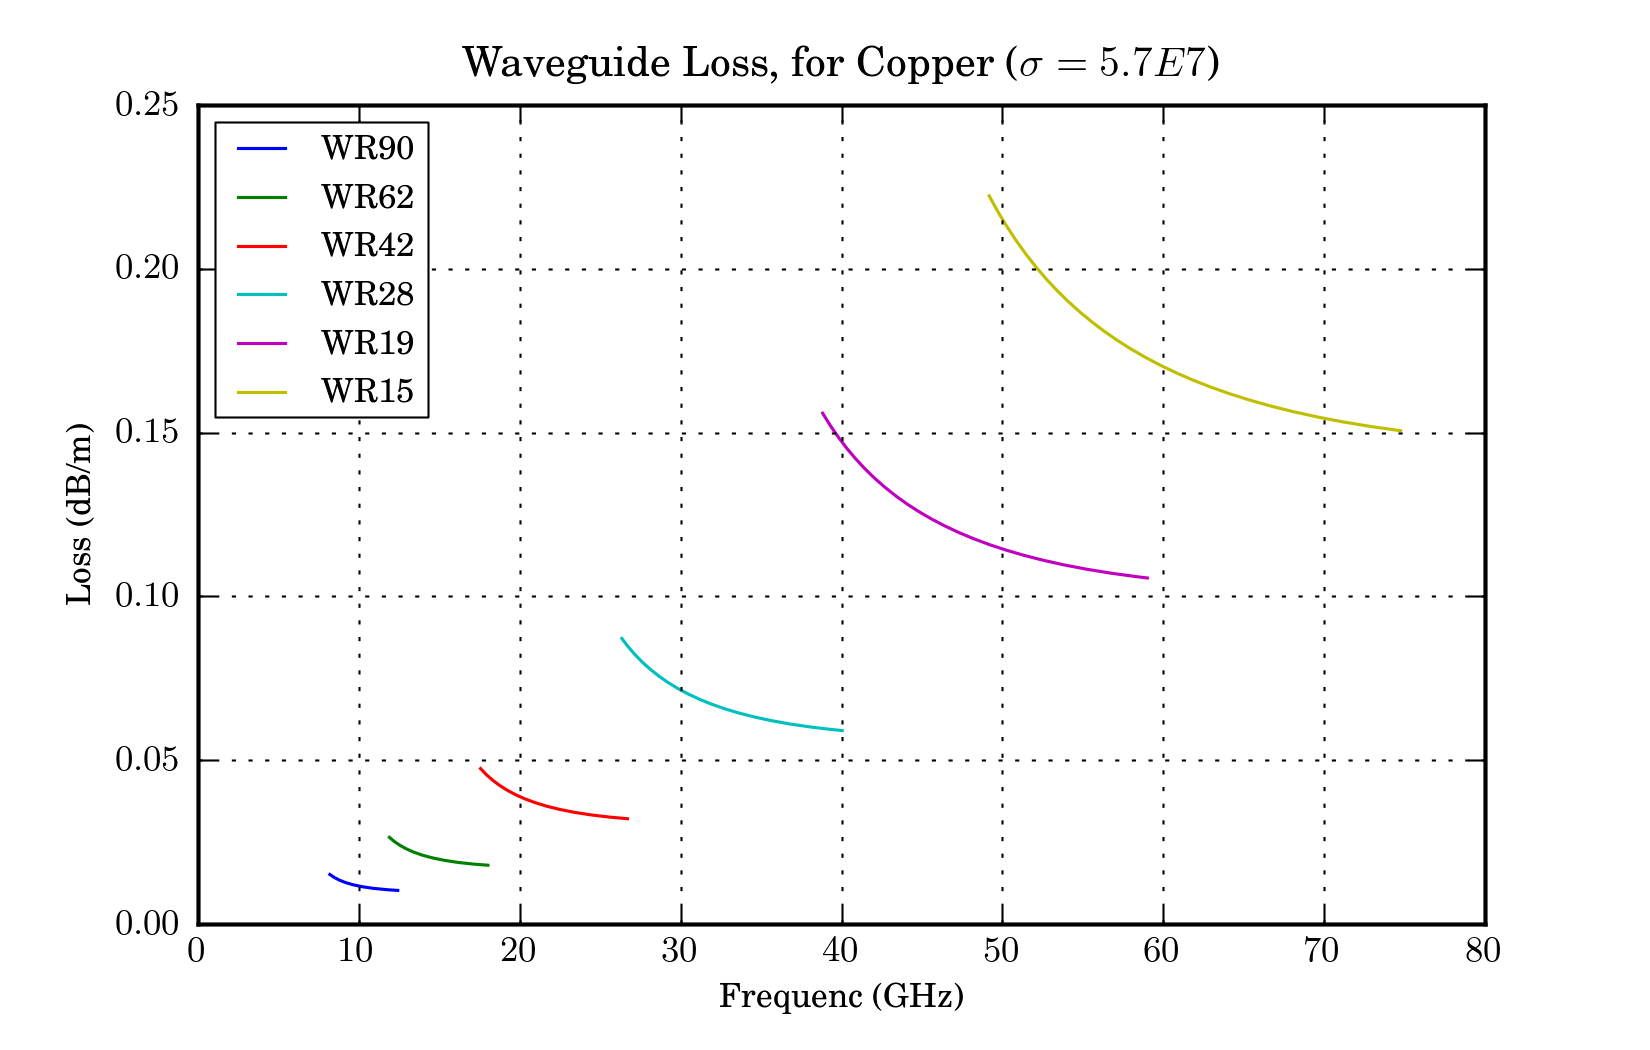
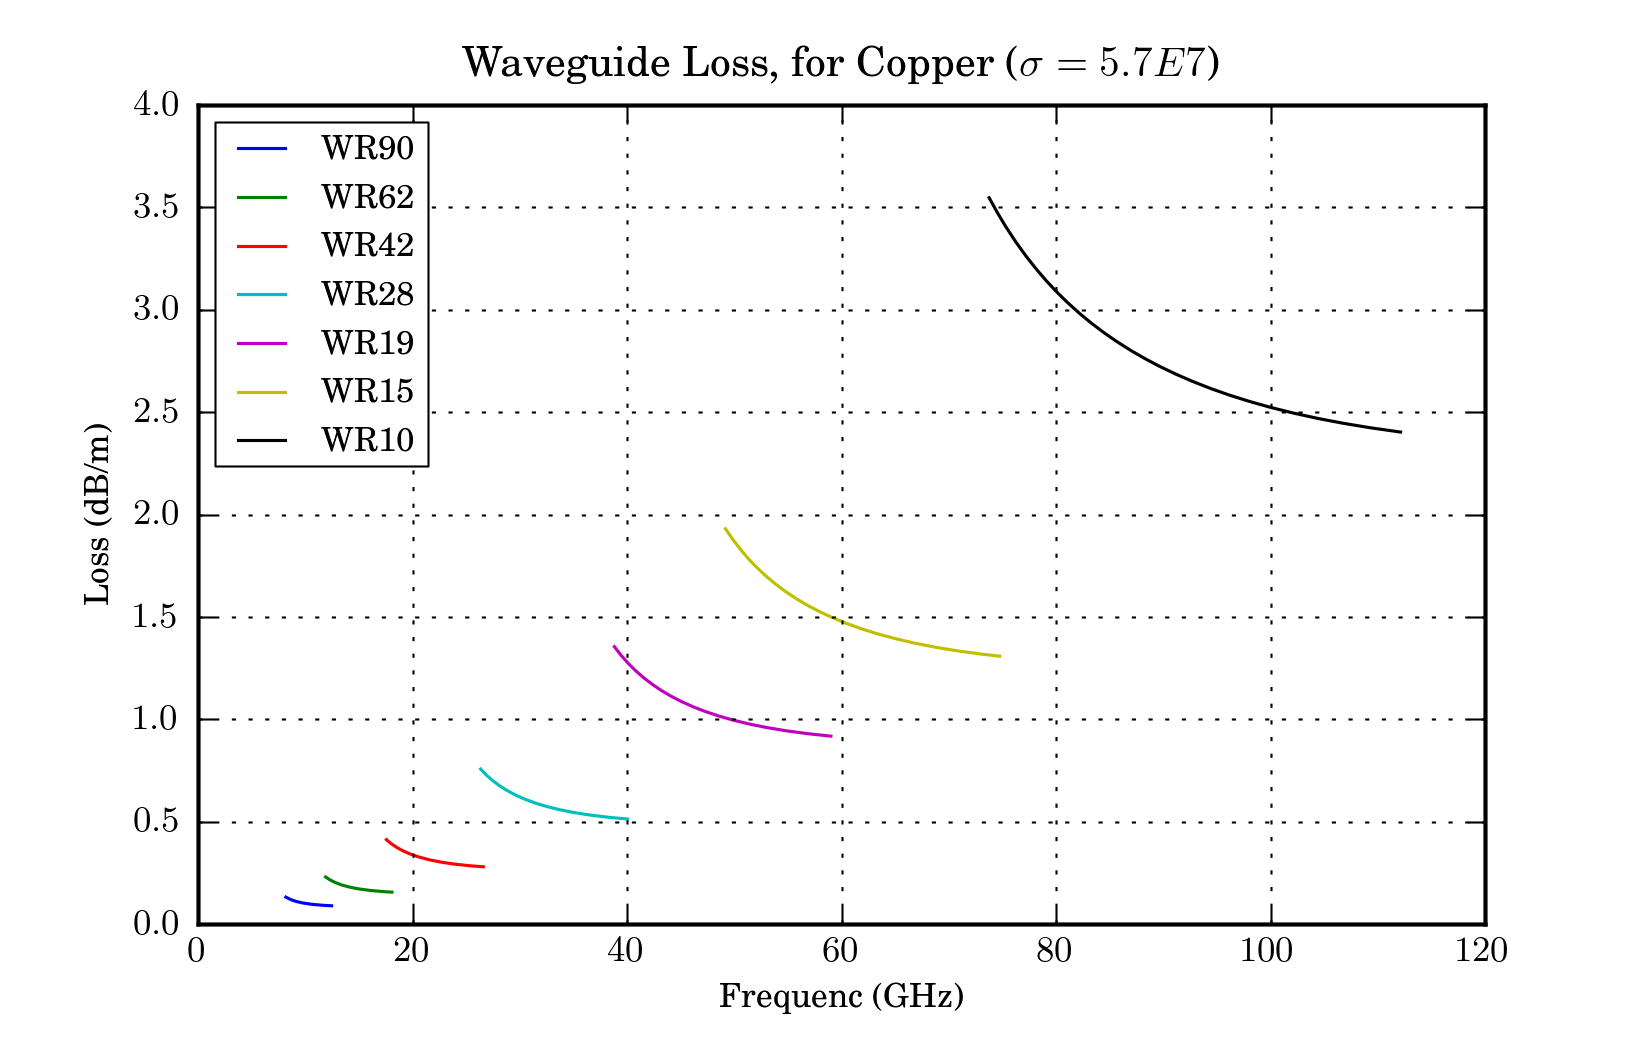
fixed example and more waveguide loss fixed

diff --git a/mwavepy/__init__.py b/mwavepy/__init__.py
@@ -30,7 +30,7 @@ from copy import copy
 # Dependencies
 try:
 	import numpy as npy
-	from numpy import sqrt, exp, array,tan,sin,cos,inf
+	from numpy import sqrt, exp, array,tan,sin,cos,inf, log, real
 except:
 	raise ImportError ('Depedent Packages not found. Please install: numpy')
 try:
@@ -54,9 +54,13 @@ except:
 # Internal 
 from touchstone import touchstone as touch	# for loading data from touchstone files
 
-#TODO LIST
+################# TODO LIST (so i dont forget)
 '''
 TBD:
+
+distiguish between the complex and real part of the propagation constant
+ussually denoted gamma = beta + i alpha. this effecte waveguide.lambdaG,
+and waveguide.vp
 
 
 use get/set for states like .s and .freq (to simultaneously update 
@@ -78,7 +82,8 @@ check if they have usetex on and use tex formatting for legend of
 s-parameters
 
 rewrite the getABC functions to recursivly call itself instead of just
-looping over frequencies, like we do for casacde, deEmbed
+looping over frequencies, like we do for casacde, deEmbed. (in hindsight 
+im not sure i like this )
 
 POSSIBLE CHANGES:
 does ntwk need freqUnit and freqMultiplier? why not just do it all in Hz 
@@ -90,8 +95,6 @@ freqUnit and freqMultiplier are redundant.
 fix frequency unit abiquity. shhould ntwk.freq dependent on ntwk.freqMultiplier or is that just for plotting ? need to tell the user either way.
 
 
-giving the waveguide class a freq vector would be usefule, although 
-kind of breaks its form
 
 calkits?
 
@@ -109,6 +112,9 @@ calkits?
 
 
 ## constants
+# electrical conductivity in S/m
+conductivityDict = {'aluminium':3.8e7,'gold':4.1e7}
+
 
 ###############  mathematical conversions ############### 
 def complex2dB(complx):
@@ -144,7 +150,18 @@ def mag2dB(mag):
 	
 def dB2Mag(dB):
 	return 10**((dB)/20.)
-	
+
+def dB2np(x):
+	'''
+	converts a value in nepers to dB
+	'''	
+	return (log(10)/20) * x
+def np2dB(x):
+	'''
+	converts a value in dB to neper's
+	'''
+	return 20/log(10) * x
+
 def rad2deg(rad):
 	return (rad)*180/pi
 	
@@ -1757,45 +1774,11 @@ class waveguide:
 		muR - relative permiability of filling material
 	TODO: implement different filling materials, and wall material losses
 	'''
-	def alphaC(self, omega,conductivity, m=1,n=0):
-		'''
-		calculates waveguide attenuation due to conductor loss
-		
-		takes:
-			omega: angular frequency (rad/s)
-			conductivity: surface material conductivity (usually 
-				written as sigma)
-			m: mode number along wide dimension  
-			n: mode number along height dimmension
-		
-		returns:
-			alphaC = attenuation in dB/m. 
-			
-			
-		note: only dominant mode (TE01)  is  supported at the moment.
-		This equation and a derivation can be found in:
-		
-		harrington: time harmonic electromagnetic fields 
-		balanis: advanced engineering electromagnectics
-		'''
-		if m != 1 or n != 0:
-			raise NotImplementedError('only dominant mode (TE01)  is  \
-				supported at the moment')
-		
-		f = omega/(2.*pi)
-		
-		Rs = npy.real( surfaceImpedance(omega=omega, \
-			conductivity=conductivity, epsilon=self.epsilon,\
-			mu=self.mu))
-		
-		
-		return Rs/(self.eta*self.b) * (1+ 2*self.b/self.a *(self.fc(m,n)/(f))**2)/\
-			sqrt(1-(self.fc(m,n)/(f))**2)
 	
 
 		
 	
-	def __init__(self, a, b, band=None, epsilonR=1, muR=1, surfaceConductivity=None, name = None):
+	def __init__(self, a, b, band=None, epsilonR=1, muR=1, surfaceConductivity=None, name = None, points = 201):
 		'''
 		takes: 
 			a - width  in meters, float
@@ -1813,6 +1796,7 @@ class waveguide:
 			self.name = 'waveguide,a='+ repr(a) + 'b='+repr(b)
 		else:
 			self.name = name
+		
 		self.a = a
 		self.b = b
 		
@@ -1829,8 +1813,8 @@ class waveguide:
 		self.mu = muR * mu_0 
 		self.eta = eta(epsilonR= epsilonR, muR= muR)
 		
-		self.freqAxis = npy.linspace(self.fStart,self.fStop,201)
-		
+		self.freqAxis = npy.linspace(self.fStart,self.fStop,points)
+		self.surfaceConductivity= surfaceConductivity
 		#all for dominant mode
 	
 	def fc(self,m=1,n=0):
@@ -1845,6 +1829,44 @@ class waveguide:
 		'''
 		return c/(2*pi)*sqrt( (m*pi/self.a)**2 +(n*pi/self.b)**2)
 
+	
+	def alphaC(self, omega, m=1,n=0):
+		'''
+		calculates waveguide attenuation due to conductor loss
+		
+		takes:
+			omega: angular frequency (rad/s)
+			conductivity: surface material conductivity (usually 
+				written as sigma)
+			m: mode number along wide dimension  
+			n: mode number along height dimmension
+		
+		returns:
+			alphaC = attenuation in np/m.  ( neper/meter)
+			
+			
+		note: only dominant mode (TE01)  is  supported at the moment.
+		This equation and a derivation can be found in:
+		
+		harrington: time harmonic electromagnetic fields 
+		balanis: advanced engineering electromagnectics
+		'''
+		if m != 1 or n != 0:
+			raise NotImplementedError('only dominant mode (TE01)  is  \
+				supported at the moment')
+		
+		f = omega/(2.*pi)
+		
+		Rs = npy.real( surfaceImpedance(omega=omega, \
+			conductivity=self.surfaceConductivity, epsilon=self.epsilon,\
+			mu=self.mu))
+		
+		
+		return Rs/(self.eta*self.b) * (1+ 2*self.b/self.a *(self.fc(m,n)/(f))**2)/\
+			sqrt(1-(self.fc(m,n)/(f))**2)
+	
+	
+	
 	def beta(self, omega,m=1,n=0):
 		'''
 		calculates the propagation constant of given mode 
@@ -1856,11 +1878,16 @@ class waveguide:
 			propagation constant (rad/m)
 		
 		TODO: should do a test below cutoff and handle imaginary sign
-		the beta here is just the space beta, which should be a method of mwavepy
+		
 		'''
 		k = omega/c
-		return sqrt(k**2 - (m*pi/self.a)**2- (n*pi/self.b)**2)
-	
+		if self.surfaceConductivity == None:
+			return sqrt(k**2 - (m*pi/self.a)**2- (n*pi/self.b)**2)
+		else:
+			# include  the conductor loss associated with the surface
+			# conductivity
+			return sqrt(k**2 - (m*pi/self.a)**2- (n*pi/self.b)**2) - \
+				1j*self.alphaC(omega=omega,m=m,n=n)
 	def beta_f(self,f,m=1,n=0):
 		'''
 		convinience function. see beta()
@@ -1877,7 +1904,7 @@ class waveguide:
 		returns:
 			guide wavelength (m)
 		'''
-		return (2*pi / self.beta(omega,m,n))
+		return real(2*pi / self.beta(omega,m,n))
 	
 	def lambdaG_f(self,f,m=1,n=0):
 		'''
@@ -1895,7 +1922,7 @@ class waveguide:
 		returns:
 			phase velocity of mode (m/s)
 		'''
-		return omega / self.beta(omega,m,n)
+		return real(omega / self.beta(omega,m,n))
 	
 	def vp_f(self, f,m=1,n=0):
 		return 2*pi*f / self.beta(2*pi*f,m,n)
@@ -1919,7 +1946,7 @@ class waveguide:
 		'''
 
 		freq = npy.linspace(self.band[0],self.band[1],numPoints)
-		s=createDelayShort(freq,l ,self.beta)
+		s = createDelayShort(freq,l ,self.beta)
 		return ntwk(data=s,paramType='s',freq=freq,**kwargs)
 
 			

diff --git a/examples/waveguideLossChart.py b/examples/waveguideLossChart.py
@@ -7,12 +7,23 @@ import pylab
 conductivityCopper=5.7e7 #S/m
 
 pylab.figure()
+
 # loops through waveguide types, and plots the conductor loss (alphaC) 
 # vs frequency
+listOfWaveguides = [ \
+	m.wr(90,surfaceConductivity=conductivityCopper),\
+	m.wr(62,surfaceConductivity=conductivityCopper),\
+	m.wr(42,surfaceConductivity=conductivityCopper),\
+	m.wr(28,surfaceConductivity=conductivityCopper),\
+	m.wr(19,surfaceConductivity=conductivityCopper),\
+	m.wr(15,surfaceConductivity=conductivityCopper),\
+	m.wr(10,surfaceConductivity=conductivityCopper)\
+	]
 
-for k in [m.wr(90), m.wr(62), m.wr(42),m.wr(28), m.wr(19),m.wr(15)]:
-	pylab.plot(k.freqAxis/1e9, k.alphaC(k.freqAxis*(2*pylab.pi), \
-		conductivity =conductivityCopper), label= k.name) 
+for k in listOfWaveguides:
+	loss = m.np2dB(k.alphaC(k.freqAxis*(2*pylab.pi))) # loss in dB/m
+	freq = k.freqAxis/1e9 # frequency in GHz
+	pylab.plot(freq, loss, label= k.name) 
 
 pylab.legend()
 pylab.xlabel('Frequenc (GHz)')
